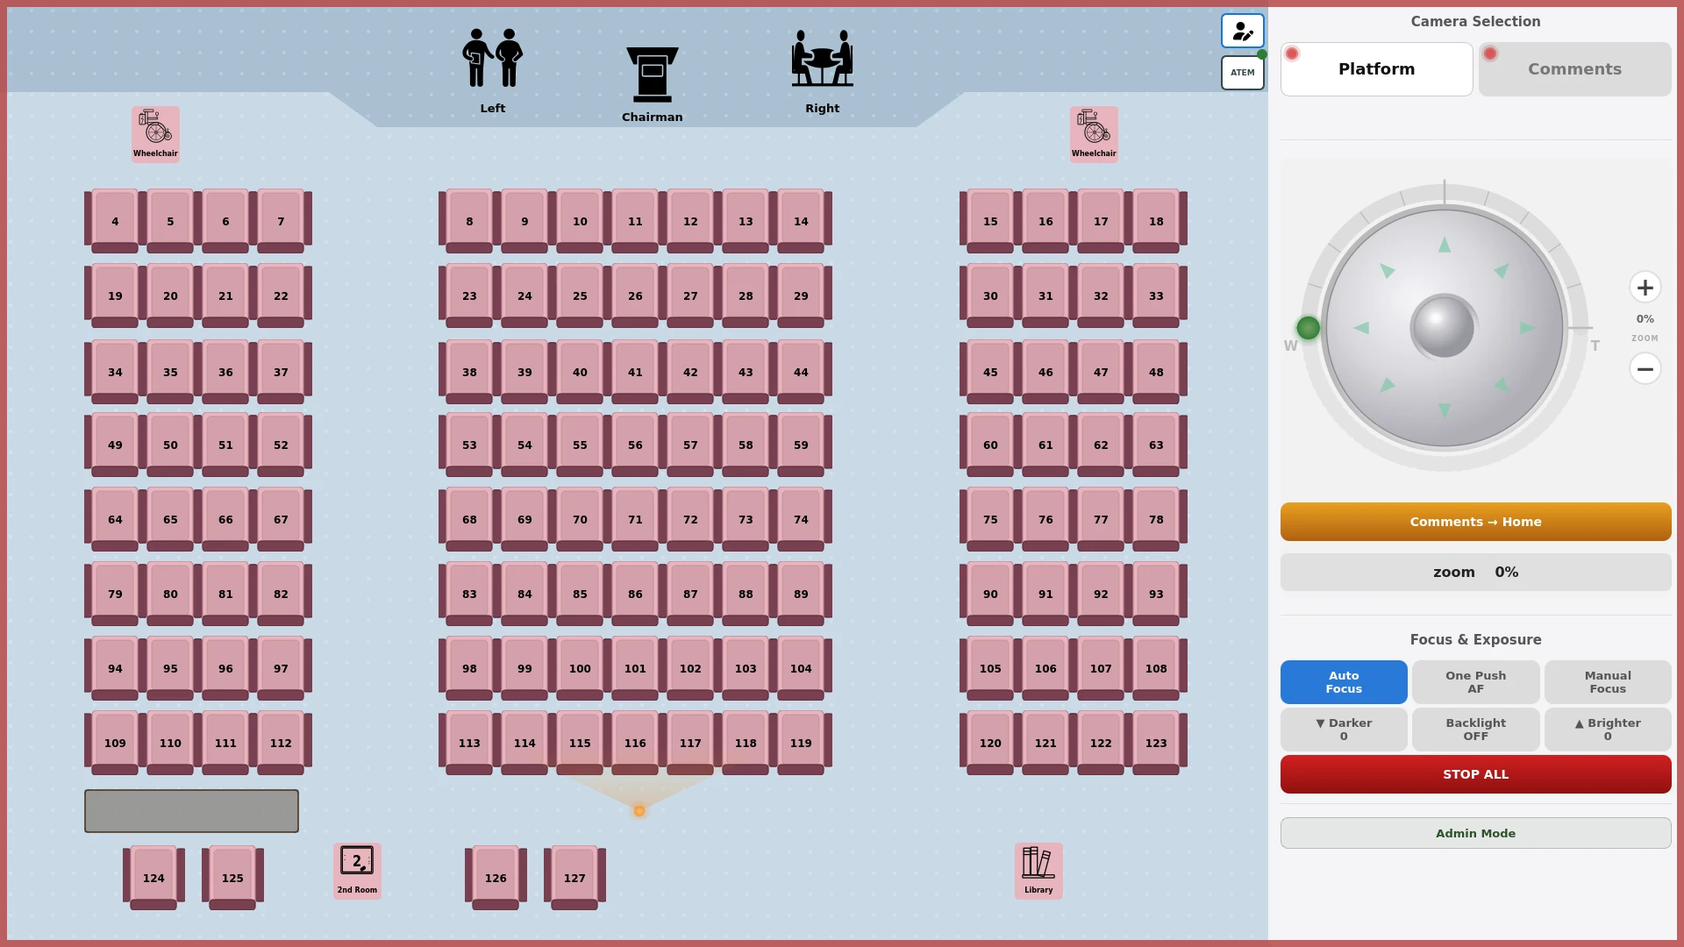
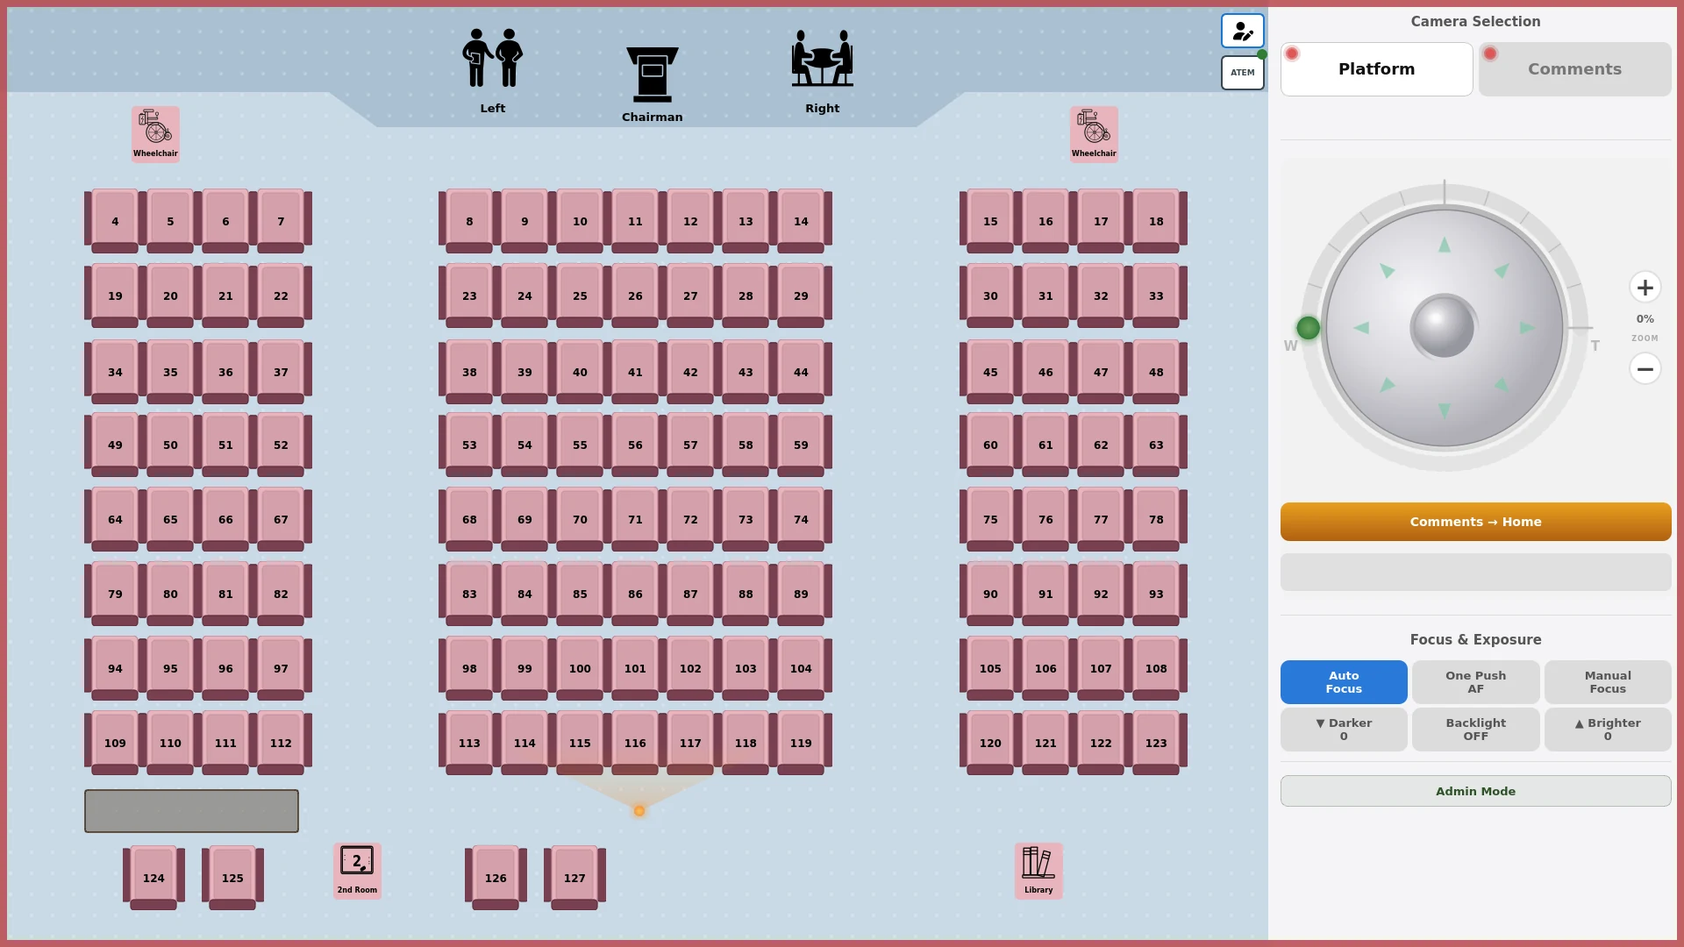
fix(ui): show STOP ALL only in admin mode

Changed region(s): [[0.75, 0.7944, 1.0, 0.8861], [0.8438, 0.5806, 0.875, 0.6111]]

diff --git a/docs/index.html b/docs/index.html
@@ -19,7 +19,7 @@
   <div class="eyebrow"><span class="signal" aria-hidden="true"></span> Open-source · Raspberry Pi · VISCA over IP</div>
   <h1>Touchscreen camera control.<br><em>For Raspberry Pi.</em></h1>
   <div class="hero-bottom"><p>For room operators: use a seat map to recall saved framing on one or two VISCA-over-IP cameras. Runs on your Raspberry Pi desktop and local network.</p><div class="hero-actions"><p class="hero-status">Target hardware validation is still pending. Rehearse on your equipment before live use.</p><a class="button" href="#install">Prepare to install <span aria-hidden="true">↓</span></a><a class="text-link" href="https://github.com/HALCONDEORO/kh-ptz-control">Explore the source <span aria-hidden="true">↗</span></a></div></div>
-  <figure class="product"><div class="window-bar"><span aria-hidden="true">● ● ●</span><span>THE OPERATOR VIEW</span><span>TOUCH FIRST</span></div><img src="site/operator.webp" width="1920" height="1080" alt="Example operator screen with a numbered auditorium seat map, Platform and Comments camera selectors, joystick, zoom, focus and exposure controls."><figcaption>Application simulation, 11 November 2026. No personal names or device addresses. Not a physical camera test.</figcaption></figure>
+  <figure class="product"><div class="window-bar"><span aria-hidden="true">● ● ●</span><span>THE OPERATOR VIEW</span><span>TOUCH FIRST</span></div><img src="site/operator.webp" width="1920" height="1080" alt="Example operator screen with a numbered auditorium seat map, Platform and Comments camera selectors, joystick, zoom, focus and exposure controls."><figcaption>USER-mode simulation, 11 November 2026. No personal names or device addresses. Not a physical camera test.</figcaption></figure>
 </section>
 <section class="section wrap start-section" id="start" aria-labelledby="start-title"><span class="eyebrow">FIND YOUR WAY</span><h2 id="start-title">Choose your next step.</h2><div class="task-routes"><a href="#install"><span class="small-label">NEW INSTALLATION</span><h3>Prepare a Raspberry Pi</h3><p>Check the equipment, run readiness checks and follow the first-run wizard.</p><span class="text-link">Installation path ↓</span></a><a href="#operate"><span class="small-label">OPERATOR</span><h3>Recall a seat's framing</h3><p>Check the camera and session, use CALL, and know how to stop.</p><span class="text-link">Operator path ↓</span></a><a href="#help"><span class="small-label">MAINTENANCE</span><h3>Understand a warning</h3><p>Check reconnecting cameras, failed saves and unavailable ATEM controls safely.</p><span class="text-link">Troubleshooting path ↓</span></a></div></section>
 <section class="section wrap" id="install">
@@ -35,8 +35,8 @@ bash install_khptz_rpi.sh --guide</code></pre><p>Do not continue if checkout fai
 </section>
 <section class="section use-section" id="operate"><div class="wrap">
   <div class="section-head"><div><span class="eyebrow">02 / AT THE CONTROLS</span><h2>Rehearse first.<br>Operate with confidence.</h2></div><p>A green connection indicator describes transport, not proof that a camera moved or saved its position. Watch the camera result, especially during setup.</p></div>
-  <div class="steps"><article><span class="step">1</span><h3>Check the session</h3><p>Confirm the selected camera and the on-screen session state. Keep one controller process connected to each camera; competing tools can displace a camera's connection.</p></article><article><span class="step">2</span><h3>Recall, then frame</h3><p>Use CALL for saved positions. Use the joystick and zoom to adjust framing. SET can overwrite camera memory: use the required role and confirmation, away from a live event.</p></article><article><span class="step">3</span><h3>Know your stop</h3><p>Use the red STOP ALL button below the camera controls to request a stop for configured cameras, even without an active session. Watch for a failure notice and confirm the physical result. Safety Reset is a service contract, not a verified GUI control. Know the equipment's physical fallback.</p></article></div>
-  <div class="walkthrough" id="demo"><h3>UI state walkthrough</h3><p class="muted">Historical UI states. Captured 10 November 2026, before the current STOP ALL button was added. Local simulation. No physical camera test. Press play to see four captured application states; playback never starts automatically.</p><video controls preload="none" width="1280" height="820" poster="site/demo-poster.webp" aria-describedby="demo-transcript"><source src="site/ui-walkthrough.mp4" type="video/mp4">Your browser does not support this video. <a href="site/ui-walkthrough.mp4">Download the UI walkthrough</a>.</video><div id="demo-transcript"><h4>What the four scenes show</h4><ol><li><strong>Choose Platform.</strong> The Platform camera selector is active.</li><li><strong>Choose Comments.</strong> The operator switches to the Comments camera.</li><li><strong>Simulated disconnect.</strong> The control panel stays visible, movement controls are disabled and &quot;Reconectando...&quot; appears.</li><li><strong>Simulated recovery.</strong> The movement controls become available again.</li></ol><p>This is a sequence of real MainWindow screenshots with injected UI states, not a recording of camera motion. Connection and power indicators are simulated. It does not demonstrate CALL, SET, STOP delivery or physical recovery.</p></div></div>
+  <div class="steps"><article><span class="step">1</span><h3>Check the session</h3><p>Confirm the selected camera and the on-screen session state. Keep one controller process connected to each camera; competing tools can displace a camera's connection.</p></article><article><span class="step">2</span><h3>Recall, then frame</h3><p>Use CALL for saved positions. Use the joystick and zoom to adjust framing. SET can overwrite camera memory: use the required role and confirmation, away from a live event.</p></article><article><span class="step">3</span><h3>Know your stop</h3><p>USER mode has no STOP ALL button. Releasing the joystick requests a stop for the camera it was moving, not all cameras. Rehearse the red STOP ALL button in ADMIN mode and confirm the physical result. Keep a physical fallback available without a password. Safety Reset is a service contract, not a verified GUI control.</p></article></div>
+  <div class="walkthrough" id="demo"><h3>UI state walkthrough</h3><p class="muted">Historical UI states. Captured 10 November 2026, before the ADMIN-only STOP ALL button was added. Local simulation. No physical camera test. Press play to see four captured application states; playback never starts automatically.</p><video controls preload="none" width="1280" height="820" poster="site/demo-poster.webp" aria-describedby="demo-transcript"><source src="site/ui-walkthrough.mp4" type="video/mp4">Your browser does not support this video. <a href="site/ui-walkthrough.mp4">Download the UI walkthrough</a>.</video><div id="demo-transcript"><h4>What the four scenes show</h4><ol><li><strong>Choose Platform.</strong> The Platform camera selector is active.</li><li><strong>Choose Comments.</strong> The operator switches to the Comments camera.</li><li><strong>Simulated disconnect.</strong> The control panel stays visible, movement controls are disabled and &quot;Reconectando...&quot; appears.</li><li><strong>Simulated recovery.</strong> The movement controls become available again.</li></ol><p>This is a sequence of real MainWindow screenshots with injected UI states, not a recording of camera motion. Connection and power indicators are simulated. It does not demonstrate CALL, SET, STOP delivery or physical recovery.</p></div></div>
   <div class="link-row"><a href="https://github.com/HALCONDEORO/kh-ptz-control/blob/main/docs/OPERATOR_GUIDE.md">Operator guide ↗</a><a href="https://github.com/HALCONDEORO/kh-ptz-control/blob/main/docs/CALL_SET_CONTRACT.md">CALL / SET behavior ↗</a><a href="https://github.com/HALCONDEORO/kh-ptz-control/blob/main/docs/CAMERA_COMPATIBILITY.md">Camera compatibility ↗</a></div>
 </div></section>
 <section class="section wrap" id="help"><div class="section-head"><div><span class="eyebrow">03 / WHEN SOMETHING ISN'T RIGHT</span><h2>Check safely.<br>Keep the evidence.</h2></div><p>Test outside a live session. Record the installed version and preserve logs before changing configuration or retrying a failed save.</p></div><div class="help-grid"><article><h3>Camera missing or reconnecting?</h3><p>Check power and network reachability, the selected camera and its configuration. Close competing controllers or network probes before retrying. Do not assume transport recovery means saved framing is correct.</p></article><article><h3>Preset did not save?</h3><p>A timeout is not success. Preserve the data and backups before saving again. Camera preset memory is separate from the app's seating layout and name-to-slot files.</p></article><article><h3>ATEM controls absent?</h3><p>That is expected until the switcher is verified. An administrator can check its IP and diagnostics in Settings. Confirm optional dependencies and licence gates before adding them.</p></article><article><h3>Need help with an installation?</h3><p>Start with <code>khptz version</code> and <code>khptz status</code>. Follow the install guide for <code>khptz doctor</code> and <code>khptz verify-install</code>. Stop the GUI before standalone camera diagnostics; a second client can disrupt camera connections. Keep backups off the device and out of public issues.</p></article></div><div class="faq" id="faq"><h3>Questions before you start</h3><details><summary>Can I use it without camera hardware?</summary><p>The repository includes simulation helpers for isolated UI rehearsal. They are not a full equipment test, and some helpers change local configuration. Use a disposable development checkout, never a live installation. Simulation does not prove physical motion, STOP delivery or camera compatibility.</p></details><details><summary>Does backing up the layout save camera presets?</summary><p>No. Layout and name-to-slot files are app data; the actual preset positions are stored in camera memory. Keep app backups, and verify each camera's positions separately.</p></details><details><summary>Why are ATEM controls hidden?</summary><p>They appear only after the configured switcher connects and a valid program read is verified. This does not block normal PTZ operation. An administrator can still inspect configuration and diagnostics in Settings.</p></details><details><summary>What this project does not do</summary><p>It does not guarantee compatibility with every VISCA camera, confirm physical motion from a green indicator, make a disconnected camera stop, or replace a physical rehearsal and the venue's fallback. The screenshot is a simulation, not a hardware certification.</p></details></div><aside class="note"><strong>Share the problem, not private site data.</strong><p>Public reports should omit device addresses, passwords, personal names, configuration exports and backup archives. Review and redact logs before attaching them.</p></aside><div class="link-row"><a href="https://github.com/HALCONDEORO/kh-ptz-control/blob/main/docs/DOCS_INDEX.md">Documentation index ↗</a><a href="https://github.com/HALCONDEORO/kh-ptz-control">Repository and issue tracker ↗</a></div></section>

diff --git a/tests/test_stop_all_wiring.py b/tests/test_stop_all_wiring.py
@@ -28,13 +28,15 @@ with TemporaryDirectory() as root:
     from ui.main_window import MainWindow
     from application.runtime_safety_service import RuntimeSafetyService
     window = MainWindow()
+    from domain.call_set_policy import OperatingMode
+    window._access_mode_svc.set_mode(OperatingMode.ADMIN)
     # bootstrap wired the product-level STOP authority into the window.
     assert isinstance(window._runtime_safety_svc, RuntimeSafetyService)
     buttons = [b for b in window._right_panel._container.findChildren(QPushButton)
                if b.text() == "STOP ALL"]
     assert len(buttons) == 1, "exactly one STOP ALL button in the right panel"
     btn = buttons[0]
-    assert not btn.isHidden(), "STOP ALL must stay visible without a session"
+    assert not btn.isHidden(), "ADMIN STOP ALL must stay visible without a session"
     calls = []
     window._bus = Mock()
     window._bus.emit.side_effect = lambda *a, **k: calls.append(("emit", a, k))
@@ -71,6 +73,8 @@ with TemporaryDirectory() as root:
     from ui.main_window import MainWindow
     from domain.supportability import OperationCode, OperationResult
     window = MainWindow()
+    from domain.call_set_policy import OperatingMode
+    window._access_mode_svc.set_mode(OperatingMode.ADMIN)
     window._bus = Mock()
     svc = Mock()
     svc.stop_all_cameras.return_value = OperationResult.failure(
@@ -112,6 +116,8 @@ with TemporaryDirectory() as root:
     from ui.main_window import MainWindow
     from domain.supportability import OperationCode, OperationResult
     window = MainWindow()
+    from domain.call_set_policy import OperatingMode
+    window._access_mode_svc.set_mode(OperatingMode.ADMIN)
     window._bus = Mock()
     svc = Mock()
     def fail(msg):
@@ -152,6 +158,8 @@ with TemporaryDirectory() as root:
     app = QApplication([])
     from ui.main_window import MainWindow
     window = MainWindow()
+    from domain.call_set_policy import OperatingMode
+    window._access_mode_svc.set_mode(OperatingMode.ADMIN)
     window._bus = Mock()
     window._runtime_safety_svc = None
     btn = [b for b in window._right_panel._container.findChildren(QPushButton)
@@ -166,3 +174,61 @@ with TemporaryDirectory() as root:
     sim.deactivate()
 '''
     _run(script)
+
+
+def test_stop_all_tracks_initial_role_and_inline_role_changes():
+    _run(r'''
+from pathlib import Path
+from tempfile import TemporaryDirectory
+from unittest.mock import Mock
+from PyQt5.QtWidgets import QApplication, QPushButton, QLabel
+import adapters.sim_mode as sim
+from application.access_mode_service import AccessModeService
+from domain.call_set_policy import OperatingMode
+from ui.stop_all_wiring import connect_stop_all
+with TemporaryDirectory() as root:
+    sim._APP_DIR = Path(root)
+    sim.BACKUP = Path(root) / 'backup.json'
+    sim.activate()
+    app = QApplication([])
+    from ui.main_window import MainWindow
+    window = MainWindow()
+    access = window._access_mode_svc
+    access.set_mode(OperatingMode.USER)
+    btn = next(b for b in window._right_panel._container.findChildren(QPushButton) if b.text() == 'STOP ALL')
+    assert btn.isHidden()
+    # USER retains release STOP for the moved camera, without an all-stop button.
+    from core.events import EventType
+    window._bus.emit = Mock()
+    window._right_panel._joystick.stop_handler()
+    assert window._bus.emit.call_args.args[0] == EventType.CAMERA_STOP
+    assert window._bus.emit.call_args.kwargs['camera'] in (1, 2)
+    window._on_role_elevation_success()
+    assert not btn.isHidden()
+    svc = Mock()
+    svc.stop_all_cameras.return_value = Mock(ok=False, message='cam2 not confirmed')
+    window._runtime_safety_svc = svc
+    btn.click()
+    notice = next(l for l in window._right_panel._container.findChildren(QLabel) if 'E05050' in l.styleSheet())
+    assert not notice.isHidden()
+    window._exit_admin_mode()
+    assert btn.isHidden() and notice.isHidden()
+    window._on_role_elevation_success()
+    assert not btn.isHidden() and notice.isHidden()
+    # Exercise initial registration in both roles without persisted state assumptions.
+    from types import SimpleNamespace
+    from PyQt5.QtWidgets import QWidget, QVBoxLayout
+    for role in (OperatingMode.USER, OperatingMode.ADMIN):
+        container = QWidget()
+        layout = QVBoxLayout(container)
+        anchor = QLabel(container)
+        layout.addWidget(anchor)
+        service = AccessModeService(Path(root) / (role.value + '.json'))
+        service.set_mode(role)
+        fixture = SimpleNamespace(_right_panel=SimpleNamespace(_container=container, _no_camera_label=anchor), _access_mode_svc=service)
+        new_button = connect_stop_all(fixture)
+        assert new_button.isHidden() == (role == OperatingMode.USER)
+        container.deleteLater()
+    window.hide()
+    sim.deactivate()
+''')

diff --git a/ui/stop_all_wiring.py b/ui/stop_all_wiring.py
@@ -19,13 +19,10 @@ without a modal dialog stealing the joystick.  A single QTimer hides
 the notice; a new failure restarts it, so the notice for the latest
 failure always survives a full timeout.
 
-Placement matters: the PTZ block (_motion_widget) is disabled when no
-camera is connected, and the controls container is hidden in that state,
-but STOP ALL must always be available — a runaway camera is exactly the
-case where connection state is uncertain.  The button therefore lives in
-the panel's outer layout, outside both subtrees, stays visible with or
-without a session, and needs no confirmation dialog: it is non-
-destructive (no standby, no state clear, no ATEM policy) and idempotent.
+The button is visible only in ADMIN mode. Within that role it stays outside
+connection/session-disabled subtrees, so uncertain transport does not hide it.
+USER mode retains joystick-release stopping, but has no dedicated all-camera
+stop button. Visibility is a UI choice, not a restriction on the safety service.
 """
 
 from __future__ import annotations
@@ -36,6 +33,7 @@ from PyQt5 import QtCore
 from PyQt5.QtWidgets import QLabel, QPushButton
 
 from core.events import EventType
+from domain.call_set_policy import OperatingMode
 
 logger = logging.getLogger(__name__)
 
@@ -105,4 +103,15 @@ def connect_stop_all(window) -> QPushButton:
     anchor = panel._no_camera_label
     layout.insertWidget(layout.indexOf(anchor) + 1, btn)
     layout.insertWidget(layout.indexOf(btn) + 1, notice)
+    access = window._access_mode_svc
+
+    def update_visibility(mode):
+        btn.setVisible(mode == OperatingMode.ADMIN)
+        if mode != OperatingMode.ADMIN:
+            notice.hide()
+            hide_timer.stop()
+
+    update_visibility(access.mode)
+    access.subscribe(update_visibility)
+    btn.destroyed.connect(lambda: access.unsubscribe(update_visibility))
     return btn

diff --git a/tests/test_project_pages.py b/tests/test_project_pages.py
@@ -179,3 +179,12 @@ def test_first_screen_explains_product_audience_and_validation_state():
     assert 'VISCA-over-IP cameras' in hero
     assert hero.index('Target hardware validation is still pending') < hero.index('href="#install"')
     assert 'summary-band' not in page
+
+
+def test_public_page_explains_user_and_admin_stop_routes():
+    text = (ROOT / 'docs/index.html').read_text()
+    assert 'USER mode has no STOP ALL button' in text
+    assert 'Releasing the joystick requests a stop' in text
+    assert 'Rehearse the red STOP ALL button in ADMIN mode' in text
+    assert 'physical fallback available without a password' in text
+    assert 'USER-mode simulation' in text

diff --git a/tests/test_operator_safety_docs.py b/tests/test_operator_safety_docs.py
@@ -20,5 +20,9 @@ def test_documented_stop_all_route_matches_current_gui():
     assert 'red STOP ALL button below the camera' in guide
     assert 'without an active session or a connected camera' in guide
     assert 'Safety Reset is still a service contract' in guide
+    assert 'USER mode hides STOP ALL' in guide
+    assert 'ADMIN mode' in guide
+    assert 'physical fallback' in guide
+    assert 'USER mode hides this button' in readme
     assert 'red **STOP ALL** button below the camera controls' in readme
     assert 'Confirm the physical result' in readme

diff --git a/docs/OPERATOR_GUIDE.md b/docs/OPERATOR_GUIDE.md
@@ -2,12 +2,18 @@
 
 This guide describes safety API contracts, not a verified GUI checklist.
 `RuntimeSafetyService` defines STOP and STOP ALL; `SafetyResetService` defines
-runtime cleanup. The operator GUI now has a red STOP ALL button below the camera
-controls. It stays accessible without an active session or a connected camera;
+runtime cleanup. In ADMIN mode, the GUI has a red STOP ALL button below the camera
+controls. Within ADMIN it stays accessible without an active session or a connected camera;
 failed requests show a temporary red notice below it. Confirm the physical result.
 Safety Reset is still a service contract, not a verified GUI control. Do not plan
 an emergency response around an unverified button or command. The GUI's camera
 close choices are described below.
+
+USER mode hides STOP ALL and has no separate per-camera STOP button. Releasing
+the joystick still requests STOP for the camera it was moving; this is not an
+all-camera stop or a promise to cancel an automatic preset recall. Rehearse
+STOP ALL in ADMIN before live use and make the venue's physical fallback
+available to USER operators without requiring a password.
 
 A successful software result does not confirm physical stopping. Network loss,
 a disconnected camera or a rejected command can prevent delivery. Rehearse the
@@ -124,7 +130,7 @@ fail to reach hardware. Recheck the result and the actual equipment every time.
 
 ## Which contract applies?
 
-STOP ALL has the GUI route described above. The other service-level choices are
+STOP ALL has the ADMIN-only GUI route described above. The other service-level choices are
 for support and development unless their installed route has been demonstrated.
 In particular, Safety Reset has no verified operator GUI control.
 

diff --git a/docs/PAGES.md b/docs/PAGES.md
@@ -20,11 +20,13 @@ links and the current product limitations before publishing.
 python3 -m pytest tests/test_project_pages.py tests/test_markdown_links.py
 ```
 
-The screenshot was generated from the real `MainWindow` in local simulation at
-commit `d6b3eff2139b5e3ff15a0e1067be523dafb4c440` on 11 November 2026. It uses the
-current repository background (`ui/khptz_background.jpg`) and is 1920 × 1080.
-The view contains numbered seats, no assigned names or device addresses. Its
-connection state is simulated; it is not proof of working physical hardware.
+The screenshot is a real `MainWindow` capture in local USER-mode simulation,
+refreshed on 11 November 2026 with the ADMIN-only STOP ALL visibility change.
+It uses the repository background (`ui/khptz_background.jpg`) and is 1920 × 1080.
+The view contains numbered seats, no assigned names or device addresses.
+Temporary app/config/data directories and simulated connection indicators were
+used; camera workers and timers were stopped before capture. STOP ALL is hidden
+in USER and visible after ADMIN elevation. This is not a physical camera test.
 Re-review replacements before committing them.
 
 ## Publish on GitHub Pages

diff --git a/README.md b/README.md
@@ -154,8 +154,10 @@ on the actual equipment before live use.
 3. Treat a green connection indicator as transport information. Queue admission
    is not a physical motion confirmation. A timeout or failed save is not success;
    do not repeatedly press SET to make the indicator change.
-4. Rehearse the red **STOP ALL** button below the camera controls and the close
-   choices before live use. STOP ALL requests stops for configured cameras even
+4. In ADMIN mode, rehearse the red **STOP ALL** button below the camera controls and the close
+   choices before live use. USER mode hides this button; joystick release still
+   requests a stop for the moved camera, not all cameras. Keep the physical
+   fallback available without admin access. STOP ALL requests stops for configured cameras even
    without an active session; a failure notice means a camera may still be moving.
    Confirm the physical result. Safety Reset is a service contract, not a verified
    GUI control. Read the [safety contracts and limits](docs/OPERATOR_GUIDE.md).

diff --git a/CHANGELOG.md b/CHANGELOG.md
@@ -12,6 +12,13 @@ This project uses a simple versioning approach while it is still in early produc
 
 ### Changed
 
+- Show STOP ALL only in ADMIN, including inline role changes. Keep underlying
+  stop services and joystick-release stopping unchanged. USER has no separate
+  all-camera stop button; document ADMIN rehearsal and a password-free physical
+  fallback. Refresh the USER-mode simulation screenshot.
+
+### Changed
+
 - Break website installation into reviewed-build, readiness, install and setup
   stages while preserving every command and its stop/identity checks.
 
